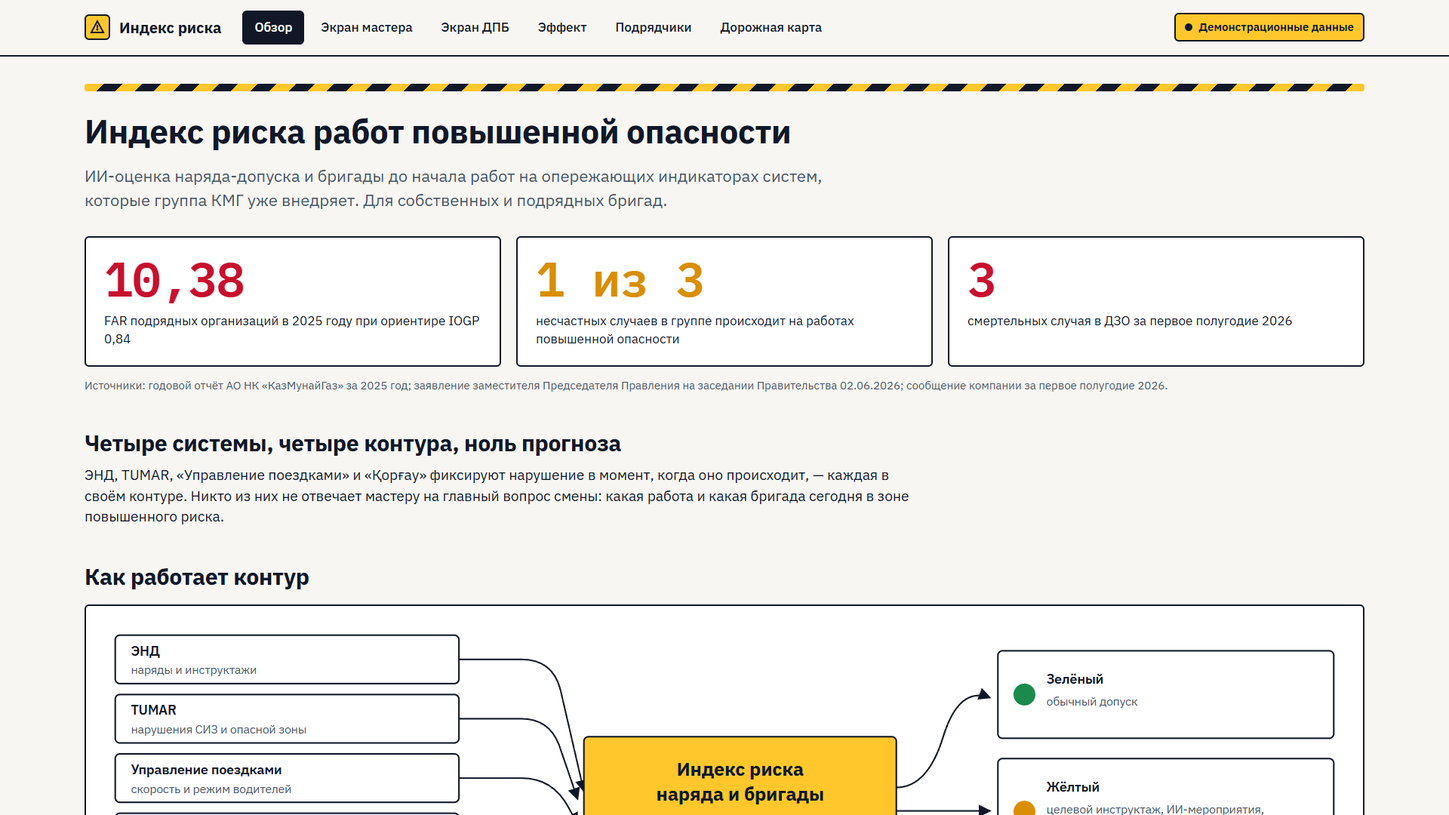
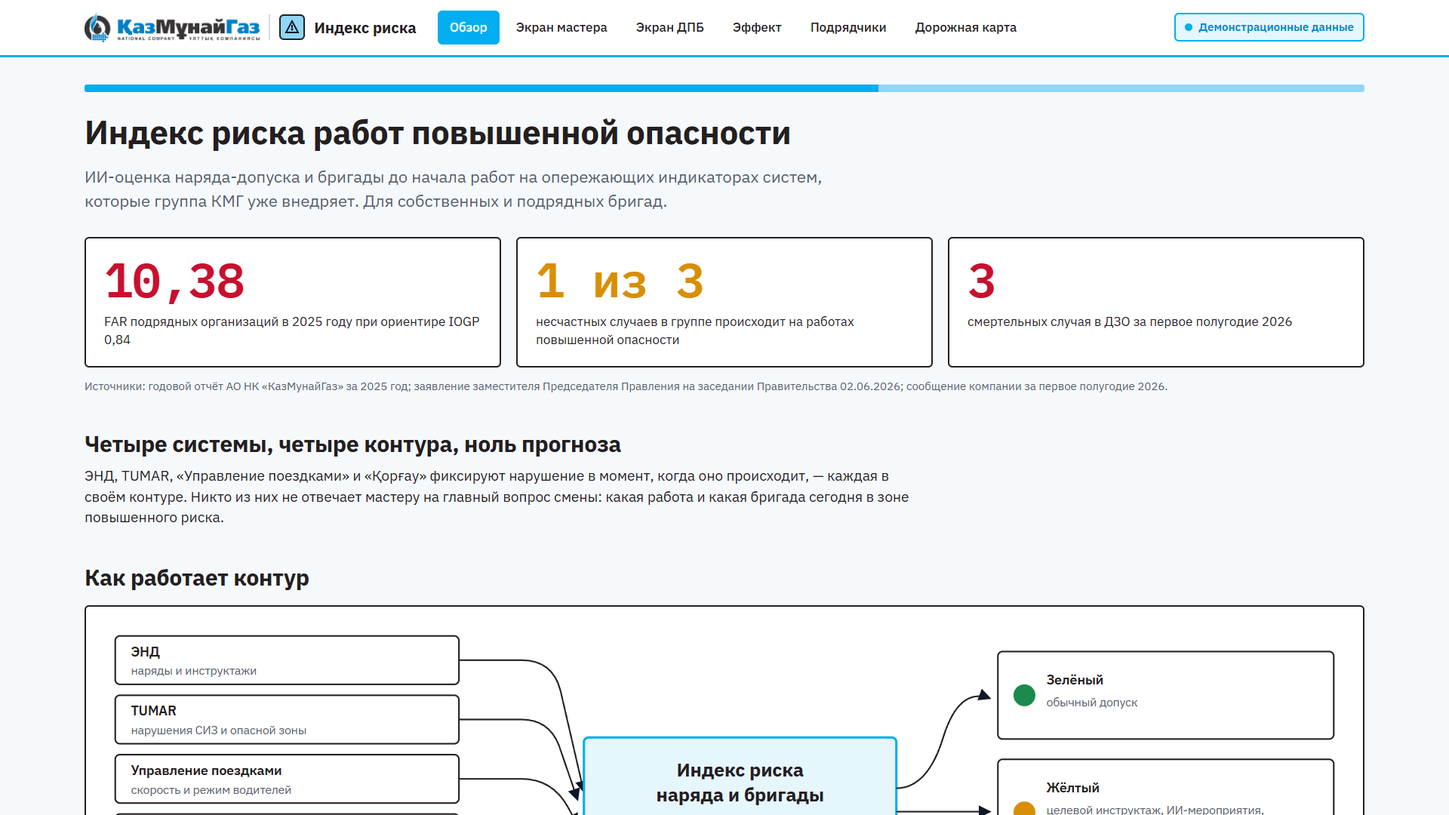
Айдентика КазМунайГаз: логотип, синий КМГ, справка о системах-источниках
Цвета показа заменены на цвета логотипа (02AEF0, 90D6F7, 231F20), логотип в шапке,
раздел «Системы-источники» на обложке для комиссий ДЗО, слайд-справка в презентациях.

diff --git a/стиль.css b/стиль.css
@@ -2,21 +2,25 @@
 @import url('https://fonts.googleapis.com/css2?family=IBM+Plex+Sans:wght@400;500;600;700&family=IBM+Plex+Mono:wght@500;600&display=swap');
 
 :root{
-  --бумага:#F7F6F2;
+  --бумага:#F5F9FC;        /* светлый фон с голубым оттенком КМГ */
   --карточка:#FFFFFF;
-  --чернила:#101828;
-  --второй:#475467;
-  --линия:#D0D5DD;
-  --линия-толстая:#101828;
+  --чернила:#231F20;       /* тёмно-серый логотипа КМГ */
+  --второй:#55606B;
+  --линия:#CFDCE6;
+  --линия-толстая:#231F20;
+  --кмг:#02AEF0;           /* синий логотипа КМГ */
+  --кмг-тёмный:#0089C4;    /* для ссылок и текста на белом */
+  --кмг-свет:#90D6F7;
+  --кмг-фон:#E6F6FD;
   --зелёный:#1B8A4C;
   --зелёный-фон:#E6F4EC;
   --янтарь:#D98E04;
   --янтарь-фон:#FFF4DB;
   --красный:#C8102E;
   --красный-фон:#FDE8EB;
-  --сигнал:#FFC72C;
-  --синий:#1D4ED8;
-  --синий-фон:#E8EEFC;
+  --сигнал:#02AEF0;        /* акцент — синий КМГ, а не жёлтый */
+  --синий:#0089C4;
+  --синий-фон:#E6F6FD;
   --текст:17px;
   --подпись:15px;
   --радиус:6px;
@@ -26,7 +30,7 @@
 *{box-sizing:border-box}
 html,body{margin:0;padding:0}
 body{background:var(--бумага);color:var(--чернила);font-family:var(--шрифт);font-size:var(--текст);line-height:1.45;-webkit-font-smoothing:antialiased}
-a{color:var(--синий);text-decoration:none}
+a{color:var(--кмг-тёмный);text-decoration:none}
 a:hover{text-decoration:underline}
 h1,h2,h3{margin:0 0 .4em;line-height:1.15;font-weight:700;letter-spacing:-.01em}
 h1{font-size:44px}
@@ -37,22 +41,24 @@ small,.подпись{font-size:var(--подпись);color:var(--второй)}
 .моно{font-family:var(--моно);font-weight:600;font-variant-numeric:tabular-nums}
 
 /* Шапка с навигацией */
-.шапка{position:sticky;top:0;z-index:20;background:var(--бумага);border-bottom:2px solid var(--линия-толстая)}
+.шапка{position:sticky;top:0;z-index:20;background:#fff;border-bottom:3px solid var(--кмг)}
 .шапка .внутри{max-width:1760px;margin:0 auto;padding:14px 32px;display:flex;align-items:center;gap:28px}
 .шапка .лого{display:flex;align-items:center;gap:12px;font-weight:700;font-size:20px;color:var(--чернила)}
-.шапка .лого .знак{width:34px;height:34px;border:2px solid var(--чернила);border-radius:var(--радиус);display:grid;place-items:center;background:var(--сигнал)}
+.шапка .лого .знак{width:34px;height:34px;border:2px solid var(--чернила);border-radius:var(--радиус);display:grid;place-items:center;background:var(--кмг-свет)}
+.шапка .лого img{height:40px;width:auto;display:block}
+.шапка .лого .разделитель{width:2px;height:34px;background:var(--линия)}
 .шапка nav{display:flex;gap:6px;flex-wrap:wrap}
 .шапка nav a{padding:8px 14px;border-radius:var(--радиус);color:var(--чернила);font-weight:500;border:2px solid transparent}
 .шапка nav a:hover{text-decoration:none;border-color:var(--линия)}
-.шапка nav a.активна{background:var(--чернила);color:#fff}
+.шапка nav a.активна{background:var(--кмг);color:#fff}
 .шапка .демо{margin-left:auto}
 
 /* Плашка «демонстрационные данные» */
-.плашка{display:inline-flex;align-items:center;gap:8px;padding:6px 12px;border-radius:var(--радиус);font-size:var(--подпись);font-weight:600;background:var(--сигнал);color:var(--чернила);border:2px solid var(--чернила)}
-.плашка::before{content:'';width:10px;height:10px;border-radius:50%;background:var(--чернила)}
+.плашка{display:inline-flex;align-items:center;gap:8px;padding:6px 12px;border-radius:var(--радиус);font-size:var(--подпись);font-weight:600;background:var(--кмг-фон);color:var(--кмг-тёмный);border:2px solid var(--кмг)}
+.плашка::before{content:'';width:10px;height:10px;border-radius:50%;background:var(--кмг)}
 
 /* Ограждающая полоска */
-.полоска{height:10px;background:repeating-linear-gradient(135deg,var(--сигнал) 0 18px,var(--чернила) 18px 36px);border-radius:3px}
+.полоска{height:10px;background:linear-gradient(90deg,var(--кмг) 0 62%,var(--кмг-свет) 62% 100%);border-radius:3px}
 
 /* Контейнер и сетки */
 .страница{max-width:1760px;margin:0 auto;padding:36px 32px 80px}
@@ -97,7 +103,7 @@ table.таблица th,table.таблица td{text-align:left;padding:12px 12p
 table.таблица th{font-size:var(--подпись);text-transform:uppercase;letter-spacing:.04em;color:var(--второй);border-bottom:2px solid var(--чернила)}
 table.таблица tr.кликабельна{cursor:pointer}
 table.таблица tr.кликабельна:hover{background:#FBFAF6}
-table.таблица tr.выбрана{background:var(--янтарь-фон)}
+table.таблица tr.выбрана{background:var(--кмг-фон)}
 table.таблица td.право,table.таблица th.право{text-align:right}
 
 /* Теплокарта */
@@ -111,10 +117,10 @@ table.таблица td.право,table.таблица th.право{text-align
 .т5{background:#C8102E;color:#fff}
 
 /* Кнопки и ползунки */
-.кнопка{display:inline-block;padding:12px 20px;border-radius:var(--радиус);border:2px solid var(--чернила);background:var(--чернила);color:#fff;font-weight:600;font-size:var(--текст);cursor:pointer}
-.кнопка.вторая{background:#fff;color:var(--чернила)}
+.кнопка{display:inline-block;padding:12px 20px;border-radius:var(--радиус);border:2px solid var(--кмг);background:var(--кмг);color:#fff;font-weight:600;font-size:var(--текст);cursor:pointer}
+.кнопка.вторая{background:#fff;color:var(--кмг-тёмный)}
 .кнопка:hover{text-decoration:none;opacity:.92}
-input[type=range]{width:100%;accent-color:var(--чернила)}
+input[type=range]{width:100%;accent-color:var(--кмг)}
 .ползунок{display:grid;grid-template-columns:1fr auto;gap:8px 16px;align-items:center;padding:12px 0;border-bottom:1px solid var(--линия)}
 .ползунок label{font-weight:500}
 .ползунок .значение{font-family:var(--моно);font-weight:600;min-width:140px;text-align:right}
@@ -139,7 +145,7 @@ input[type=range]{width:100%;accent-color:var(--чернила)}
 .заголовок .лид{max-width:900px;font-size:20px;color:var(--второй)}
 
 /* Нижний колонтитул */
-.подвал{margin-top:48px;padding-top:18px;border-top:2px solid var(--чернила);font-size:var(--подпись);color:var(--второй);display:flex;gap:24px;flex-wrap:wrap;justify-content:space-between}
+.подвал{margin-top:48px;padding-top:18px;border-top:2px solid var(--кмг);font-size:var(--подпись);color:var(--второй);display:flex;gap:24px;flex-wrap:wrap;justify-content:space-between}
 
 /* Схема контура */
 .схема svg{width:100%;height:auto;display:block}
@@ -147,21 +153,21 @@ input[type=range]{width:100%;accent-color:var(--чернила)}
 .схема .моно{font-family:var(--моно)}
 .схема .подпись{font-size:15px;fill:var(--второй)}
 .схема .рамка{fill:#fff;stroke:var(--чернила);stroke-width:2}
-.схема .рамка.акцент{fill:var(--сигнал)}
+.схема .рамка.акцент{fill:var(--кмг-фон);stroke:var(--кмг);stroke-width:3}
 .схема .линия{stroke:var(--чернила);stroke-width:2;fill:none}
 .схема .з{fill:var(--зелёный)}.схема .ж{fill:var(--янтарь)}.схема .к{fill:var(--красный)}
 
 /* Sparkline */
 .искра{width:100%;height:56px;display:block}
-.искра path{fill:none;stroke:var(--чернила);stroke-width:2.5;stroke-linejoin:round;stroke-linecap:round}
-.искра .зона{fill:var(--сигнал);opacity:.25;stroke:none}
+.искра path{fill:none;stroke:var(--кмг-тёмный);stroke-width:2.5;stroke-linejoin:round;stroke-linecap:round}
+.искра .зона{fill:var(--кмг);opacity:.18;stroke:none}
 
 /* Лента времени (дорожная карта) */
 .лента{display:grid;grid-template-columns:220px repeat(6,1fr);gap:6px;align-items:center}
 .лента .кв{font-size:var(--подпись);text-transform:uppercase;letter-spacing:.04em;color:var(--второй);text-align:center;padding:8px 0;border-bottom:2px solid var(--чернила)}
 .лента .ряд{font-weight:600;padding:12px 0}
 .лента .блок{height:44px;border-radius:4px;border:2px solid var(--чернила);display:flex;align-items:center;justify-content:center;font-size:var(--подпись);font-weight:600}
-.лента .блок.пилот{background:var(--сигнал)}
+.лента .блок.пилот{background:var(--кмг-свет);border-color:var(--кмг-тёмный)}
 .лента .блок.тираж{background:var(--зелёный-фон);border-color:var(--зелёный);color:var(--зелёный)}
 .лента .блок.пусто{border:1px dashed var(--линия);background:transparent}
 

diff --git a/index.html b/index.html
@@ -25,7 +25,7 @@
 </head>
 <body>
 <header class="шапка"><div class="внутри">
- <a class="лого" href="index.html"><span class="знак"><svg width="20" height="20" viewBox="0 0 20 20"><path d="M10 2 L18 17 H2 Z" fill="none" stroke="#101828" stroke-width="2"/><circle cx="10" cy="13" r="1.5" fill="#101828"/><path d="M10 7v4" stroke="#101828" stroke-width="2"/></svg></span>Индекс риска</a>
+ <a class="лого" href="index.html"><img src="медиа/лого_кмг.png" alt="КазМунайГаз"><span class="разделитель"></span><span class="знак"><svg width="20" height="20" viewBox="0 0 20 20"><path d="M10 2 L18 17 H2 Z" fill="none" stroke="#101828" stroke-width="2"/><circle cx="10" cy="13" r="1.5" fill="#101828"/><path d="M10 7v4" stroke="#101828" stroke-width="2"/></svg></span>Индекс риска</a>
  <nav><a href="index.html" class="активна">Обзор</a><a href="смена.html">Экран мастера</a><a href="карта.html">Экран ДПБ</a><a href="эффект.html">Эффект</a><a href="подрядчик.html">Подрядчики</a><a href="дорожная_карта.html">Дорожная карта</a></nav>
  <span class="плашка демо">Демонстрационные данные</span>
 </div></header>
@@ -145,6 +145,21 @@
           <text x="1092" y="575" text-anchor="middle" class="подпись">акты расследования → извлечённые уроки → дообучение</text>
         </g>
       </svg>
+    </div>
+  </section>
+
+  <section class="раздел справка">
+    <h2>Системы-источники: что это и где уже работает</h2>
+    <p class="подпись" style="max-width:900px;margin-bottom:16px">Справочно для комиссий ДЗО: индекс не требует новых систем, он читает события из тех, что группа уже внедрила.</p>
+    <div class="сетка к4">
+      <div class="карточка тонкая"><h3>ЭНД</h3><p>Электронный наряд-допуск: оформление и согласование, инструктаж с ЭЦП, контроль газовоздушной среды, закрытие без бумаги. ИИ проверяет мероприятия по рискам.</p><p class="подпись">ОМГ — опытно-промышленная эксплуатация; 2026 — КБМ, ММГ</p></div>
+      <div class="карточка тонкая"><h3>TUMAR</h3><p>Компьютерное зрение на бригадах ПРС/КРС: камера на устье распознаёт отсутствие СИЗ, заход в опасную зону при СПО, нарушения с гидроключом; свето-звуковой сигнал бригаде, журнал событий.</p><p class="подпись">Разработка КМГ Инжиниринг · ОСК 60 бригад · тираж ОМГ, ОМС, КБМ, ЭМГ · к 2027 — 242 бригады</p></div>
+      <div class="карточка тонкая"><h3>«Управление поездками»</h3><p>Электронные заявки на транспорт и GPS-мониторинг с онлайн-уведомлениями о превышении скорости и резком торможении.</p><p class="подпись">7 ДЗО · более 3 000 единиц техники</p></div>
+      <div class="карточка тонкая"><h3>«Қорғау»</h3><p>Карточки работников об опасных условиях и действиях; своевременное вмешательство в небезопасные действия.</p><p class="подпись">ДПБ КМГ · все ДЗО</p></div>
+      <div class="карточка тонкая"><h3>Реестр инцидентов</h3><p>База происшествий и актов расследования. Развитие реестров технологических рисков и инцидентов — план ДПБ на 2026 год.</p><p class="подпись">ДПБ КМГ</p></div>
+      <div class="карточка тонкая"><h3>АСДЦ</h3><p>Аналитическая система Диспетчерского центра КМГ: единая платформа производственных данных всех ДЗО, включая инциденты и события ЧС. Здесь размещается индекс.</p><p class="подпись">КМГ · работает с 2015 года</p></div>
+      <div class="карточка тонкая"><h3>KMG AISAP</h3><p>Цифровая платформа закупок группы: потребность, маркетинг цен, тендер, договор. Здесь размещается паспорт безопасности подрядчика.</p><p class="подпись">KMG Digital · группа КМГ</p></div>
+      <div class="карточка тонкая"><h3>Фото места работ</h3><p>Новый слой: мастер снимает место работ на телефон, ИИ проверяет СИЗ, ограждения и знаки. Даёт сигнал там, где камер нет.</p><p class="подпись">Предлагается в этой заявке</p></div>
     </div>
   </section>
 

diff --git a/дорожная_карта.html b/дорожная_карта.html
@@ -32,7 +32,7 @@
 </head>
 <body>
 <header class="шапка"><div class="внутри">
- <a class="лого" href="index.html"><span class="знак"><svg width="20" height="20" viewBox="0 0 20 20"><path d="M10 2 L18 17 H2 Z" fill="none" stroke="#101828" stroke-width="2"/><circle cx="10" cy="13" r="1.5" fill="#101828"/><path d="M10 7v4" stroke="#101828" stroke-width="2"/></svg></span>Индекс риска</a>
+ <a class="лого" href="index.html"><img src="медиа/лого_кмг.png" alt="КазМунайГаз"><span class="разделитель"></span><span class="знак"><svg width="20" height="20" viewBox="0 0 20 20"><path d="M10 2 L18 17 H2 Z" fill="none" stroke="#101828" stroke-width="2"/><circle cx="10" cy="13" r="1.5" fill="#101828"/><path d="M10 7v4" stroke="#101828" stroke-width="2"/></svg></span>Индекс риска</a>
  <nav><a href="index.html">Обзор</a><a href="смена.html">Экран мастера</a><a href="карта.html">Экран ДПБ</a><a href="эффект.html">Эффект</a><a href="подрядчик.html">Подрядчики</a><a href="дорожная_карта.html" class="активна">Дорожная карта</a></nav>
  <span class="плашка демо">Демонстрационные данные</span>
 </div></header>

diff --git a/карта.html b/карта.html
@@ -48,7 +48,7 @@
 </head>
 <body>
 <header class="шапка"><div class="внутри">
- <a class="лого" href="index.html"><span class="знак"><svg width="20" height="20" viewBox="0 0 20 20"><path d="M10 2 L18 17 H2 Z" fill="none" stroke="#101828" stroke-width="2"/><circle cx="10" cy="13" r="1.5" fill="#101828"/><path d="M10 7v4" stroke="#101828" stroke-width="2"/></svg></span>Индекс риска</a>
+ <a class="лого" href="index.html"><img src="медиа/лого_кмг.png" alt="КазМунайГаз"><span class="разделитель"></span><span class="знак"><svg width="20" height="20" viewBox="0 0 20 20"><path d="M10 2 L18 17 H2 Z" fill="none" stroke="#101828" stroke-width="2"/><circle cx="10" cy="13" r="1.5" fill="#101828"/><path d="M10 7v4" stroke="#101828" stroke-width="2"/></svg></span>Индекс риска</a>
  <nav><a href="index.html">Обзор</a><a href="смена.html">Экран мастера</a><a href="карта.html" class="активна">Экран ДПБ</a><a href="эффект.html">Эффект</a><a href="подрядчик.html">Подрядчики</a><a href="дорожная_карта.html">Дорожная карта</a></nav>
  <span class="плашка демо">Демонстрационные данные</span>
 </div></header>

diff --git a/подрядчик.html b/подрядчик.html
@@ -52,7 +52,7 @@
 </head>
 <body>
 <header class="шапка"><div class="внутри">
- <a class="лого" href="index.html"><span class="знак"><svg width="20" height="20" viewBox="0 0 20 20"><path d="M10 2 L18 17 H2 Z" fill="none" stroke="#101828" stroke-width="2"/><circle cx="10" cy="13" r="1.5" fill="#101828"/><path d="M10 7v4" stroke="#101828" stroke-width="2"/></svg></span>Индекс риска</a>
+ <a class="лого" href="index.html"><img src="медиа/лого_кмг.png" alt="КазМунайГаз"><span class="разделитель"></span><span class="знак"><svg width="20" height="20" viewBox="0 0 20 20"><path d="M10 2 L18 17 H2 Z" fill="none" stroke="#101828" stroke-width="2"/><circle cx="10" cy="13" r="1.5" fill="#101828"/><path d="M10 7v4" stroke="#101828" stroke-width="2"/></svg></span>Индекс риска</a>
  <nav><a href="index.html">Обзор</a><a href="смена.html">Экран мастера</a><a href="карта.html">Экран ДПБ</a><a href="эффект.html">Эффект</a><a href="подрядчик.html" class="активна">Подрядчики</a><a href="дорожная_карта.html">Дорожная карта</a></nav>
  <span class="плашка демо">Демонстрационные данные</span>
 </div></header>

diff --git a/смена.html b/смена.html
@@ -34,7 +34,7 @@
 </head>
 <body>
 <header class="шапка"><div class="внутри">
- <a class="лого" href="index.html"><span class="знак"><svg width="20" height="20" viewBox="0 0 20 20"><path d="M10 2 L18 17 H2 Z" fill="none" stroke="#101828" stroke-width="2"/><circle cx="10" cy="13" r="1.5" fill="#101828"/><path d="M10 7v4" stroke="#101828" stroke-width="2"/></svg></span>Индекс риска</a>
+ <a class="лого" href="index.html"><img src="медиа/лого_кмг.png" alt="КазМунайГаз"><span class="разделитель"></span><span class="знак"><svg width="20" height="20" viewBox="0 0 20 20"><path d="M10 2 L18 17 H2 Z" fill="none" stroke="#101828" stroke-width="2"/><circle cx="10" cy="13" r="1.5" fill="#101828"/><path d="M10 7v4" stroke="#101828" stroke-width="2"/></svg></span>Индекс риска</a>
  <nav><a href="index.html">Обзор</a><a href="смена.html" class="активна">Экран мастера</a><a href="карта.html">Экран ДПБ</a><a href="эффект.html">Эффект</a><a href="подрядчик.html">Подрядчики</a><a href="дорожная_карта.html">Дорожная карта</a></nav>
  <span class="плашка демо">Демонстрационные данные</span>
 </div></header>

diff --git a/эффект.html b/эффект.html
@@ -36,7 +36,7 @@
 </head>
 <body>
 <header class="шапка"><div class="внутри">
- <a class="лого" href="index.html"><span class="знак"><svg width="20" height="20" viewBox="0 0 20 20"><path d="M10 2 L18 17 H2 Z" fill="none" stroke="#101828" stroke-width="2"/><circle cx="10" cy="13" r="1.5" fill="#101828"/><path d="M10 7v4" stroke="#101828" stroke-width="2"/></svg></span>Индекс риска</a>
+ <a class="лого" href="index.html"><img src="медиа/лого_кмг.png" alt="КазМунайГаз"><span class="разделитель"></span><span class="знак"><svg width="20" height="20" viewBox="0 0 20 20"><path d="M10 2 L18 17 H2 Z" fill="none" stroke="#101828" stroke-width="2"/><circle cx="10" cy="13" r="1.5" fill="#101828"/><path d="M10 7v4" stroke="#101828" stroke-width="2"/></svg></span>Индекс риска</a>
  <nav><a href="index.html">Обзор</a><a href="смена.html">Экран мастера</a><a href="карта.html">Экран ДПБ</a><a href="эффект.html" class="активна">Эффект</a><a href="подрядчик.html">Подрядчики</a><a href="дорожная_карта.html">Дорожная карта</a></nav>
  <span class="плашка демо">Демонстрационные данные</span>
 </div></header>

diff --git a/схемы.html b/схемы.html
@@ -17,7 +17,7 @@
 </head>
 <body>
 <header class="шапка"><div class="внутри">
- <a class="лого" href="index.html"><span class="знак"><svg width="20" height="20" viewBox="0 0 20 20"><path d="M10 2 L18 17 H2 Z" fill="none" stroke="#101828" stroke-width="2"/><circle cx="10" cy="13" r="1.5" fill="#101828"/><path d="M10 7v4" stroke="#101828" stroke-width="2"/></svg></span>Индекс риска</a>
+ <a class="лого" href="index.html"><img src="медиа/лого_кмг.png" alt="КазМунайГаз"><span class="разделитель"></span><span class="знак"><svg width="20" height="20" viewBox="0 0 20 20"><path d="M10 2 L18 17 H2 Z" fill="none" stroke="#101828" stroke-width="2"/><circle cx="10" cy="13" r="1.5" fill="#101828"/><path d="M10 7v4" stroke="#101828" stroke-width="2"/></svg></span>Индекс риска</a>
  <nav><a href="index.html">Обзор</a><a href="смена.html">Экран мастера</a><a href="карта.html">Экран ДПБ</a><a href="эффект.html">Эффект</a><a href="подрядчик.html">Подрядчики</a><a href="дорожная_карта.html">Дорожная карта</a></nav>
  <span class="плашка демо">Схемы для форм заявок</span>
 </div></header>

diff --git a/сборка_презентаций.py b/сборка_презентаций.py
@@ -17,8 +17,10 @@ def rgb(h):
     return RGBColor.from_string(h.lstrip("#"))
 
 
-БУМАГА, ЧЕРНИЛА, ВТОРОЙ = "F7F6F2", "101828", "475467"
-СИГНАЛ, ЗЕЛ, ЯНТ, КРАСН = "FFC72C", "1B8A4C", "D98E04", "C8102E"
+БУМАГА, ЧЕРНИЛА, ВТОРОЙ = "FFFFFF", "231F20", "55606B"   # айдентика КМГ: тёмно-серый логотипа
+СИГНАЛ, ЗЕЛ, ЯНТ, КРАСН = "02AEF0", "1B8A4C", "D98E04", "C8102E"   # синий логотипа КМГ
+КМГ_СВЕТ = "90D6F7"
+ЛОГО = os.path.join(os.path.dirname(os.path.abspath(__file__)), "медиа", "лого_кмг.png")
 
 
 def font_installed(name):
@@ -77,9 +79,11 @@ def новый(prs, n, title, sub=None):
     bar = s.shapes.add_shape(MSO_SHAPE.RECTANGLE, 0, 0, prs.slide_width, Inches(0.12))
     bar.fill.solid()
     bar.fill.fore_color.rgb = rgb(СИГНАЛ)
-    bar.line.color.rgb = rgb("000000")
-    bar.line.width = Pt(1)
-    текст(s, 0.55, 0.32, 12.2, 0.6, title, 32, bold=True)
+    bar.line.fill.background()
+    # логотип КМГ в правом верхнем углу (цветной, на белом)
+    if os.path.exists(ЛОГО):
+        s.shapes.add_picture(ЛОГО, Inches(10.55), Inches(0.3), height=Inches(0.42))
+    текст(s, 0.55, 0.32, 9.8, 0.6, title, 32, bold=True)
     if sub:
         текст(s, 0.55, 0.92, 12.2, 0.4, sub, 18, ВТОРОЙ)
     текст(s, 0.55, 7.05, 11.6, 0.3, ФУТЕР, 12, ВТОРОЙ, align=PP_ALIGN.RIGHT)
@@ -172,6 +176,28 @@ def эффект(prs, n, items, head):
         r.font.color.rgb = rgb(ЧЕРНИЛА)
 
 
+СПРАВКА = [
+    ("ЭНД", "электронный наряд-допуск: оформление, инструктаж с ЭЦП, контроль ГВС, закрытие без бумаги; ИИ проверяет мероприятия. ОМГ (ОПЭ), 2026 — КБМ, ММГ"),
+    ("TUMAR", "компьютерное зрение на бригадах ПРС/КРС (КМГ Инжиниринг): СИЗ, опасная зона при СПО, гидроключ; сигнал бригаде, журнал. ОСК 60 бригад, тираж ОМГ, ОМС, КБМ, ЭМГ; к 2027 — 242 бригады"),
+    ("«Управление поездками»", "заявки на транспорт и GPS-мониторинг с уведомлениями о скорости и резком торможении. 7 ДЗО, 3 000+ единиц техники"),
+    ("«Қорғау»", "карточки работников об опасных условиях и действиях. ДПБ КМГ, все ДЗО"),
+    ("Реестр инцидентов", "база происшествий и актов расследования; развитие реестров рисков и инцидентов — план ДПБ на 2026"),
+    ("АСДЦ", "Аналитическая система Диспетчерского центра КМГ (с 2015): единая платформа производственных данных ДЗО, включая инциденты и ЧС"),
+    ("KMG AISAP", "цифровая платформа закупок группы: потребность, маркетинг цен, тендер, договор"),
+]
+
+
+def справка(prs, n, подзаголовок):
+    """Слайд для комиссий ДЗО: что такое системы-источники. Новых систем не требуется."""
+    s = новый(prs, n, "Справочно: системы-источники", подзаголовок)
+    for i, (имя, что) in enumerate(СПРАВКА):
+        col, row = i % 2, i // 2
+        x = 0.55 + col * 6.2
+        y = 1.5 + row * 1.35
+        текст(s, x, y, 5.9, 0.4, имя, 18, СИГНАЛ, bold=True)
+        текст(s, x, y + 0.38, 5.9, 0.95, что, 13, ЧЕРНИЛА)
+
+
 def сохранить(prs, name):
     path = os.path.join(OUT, name + ".pptx")
     prs.save(path)
@@ -206,7 +232,8 @@ A = новая()
        "Оценка, параметры открыты")
 со_кадром(A, 5, "Дорожная карта тиража", ["06_дорожная_карта.png"],
           "Пилот ОМГ (ЭНД + TUMAR + «Управление поездками» уже работают) → ММГ, КБМ → ЭМГ, ОСК → НПЗ. От ДЗО нужен только доступ к событиям систем")
-pa = сохранить(A, "Презентация_A")
+pa = справка(A, 6, "Все уже работают в группе КМГ. Индекс читает их события, новых систем и оборудования не требуется")
+сохранить(A, "Презентация_A")
 
 # ---------- D ----------
 D = новая()
@@ -228,7 +255,8 @@ D = новая()
        "Оценка, параметры открыты")
 со_кадром(D, 5, "Дорожная карта", ["06_дорожная_карта.png"],
           "Пилот ОСК и ОТК (TUMAR и «Управление поездками» уже работают) → ОКК, ОМГ → все добывающие ДЗО. Гейт в AISAP обязателен для работ повышенной опасности с Q3 2027")
-pd = сохранить(D, "Презентация_D")
+pd = справка(D, 6, "Все уже работают в группе КМГ. Паспорт считается из их данных, новых проверок не требуется")
+сохранить(D, "Презентация_D")
 
 
 # ---------- PDF ----------
